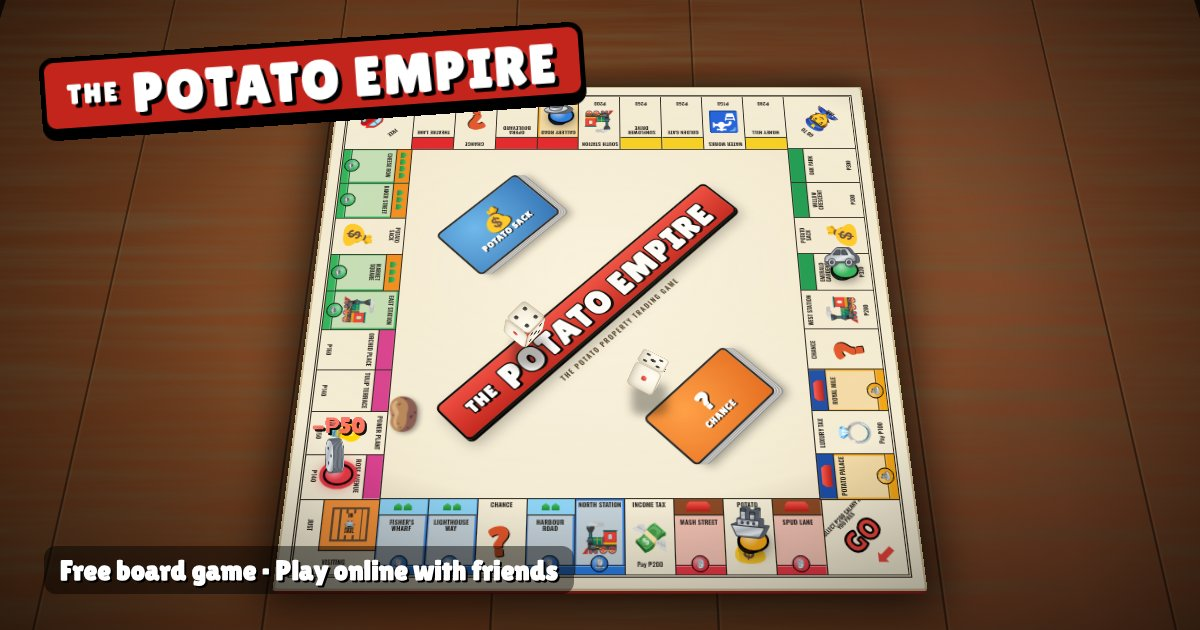
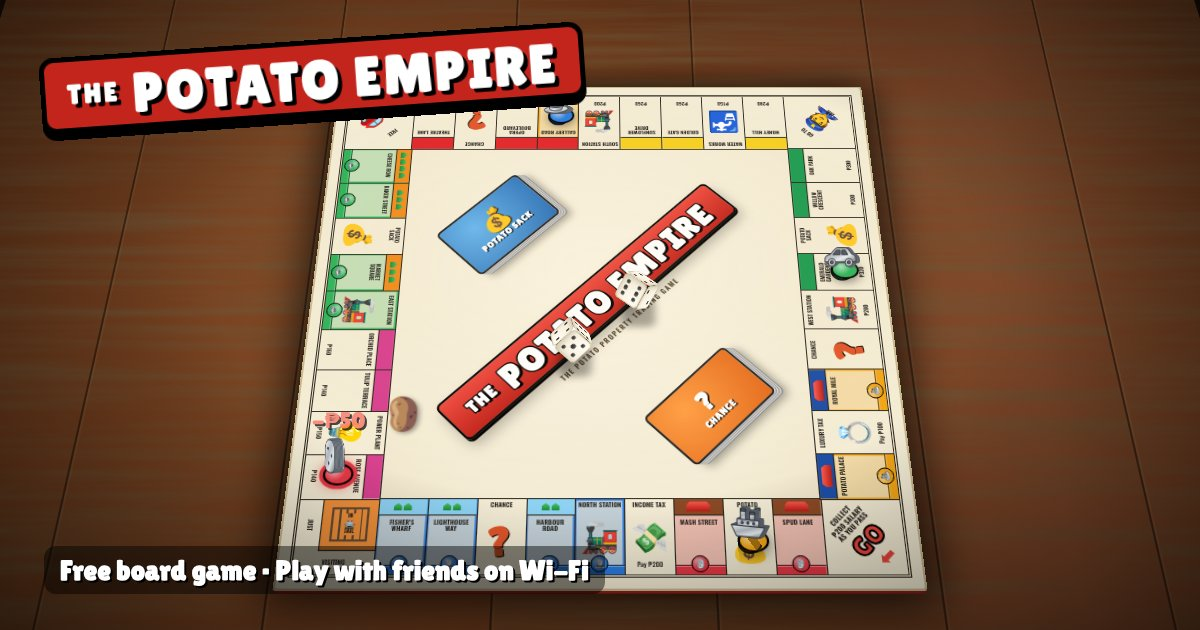
The Potato Empire: multiplayer is same-Wi-Fi only – drop relay servers, say so everywhere
- No STUN/TURN relay servers any more; devices on the same Wi-Fi connect directly
- Mode button, host/join cards, lobby, errors, log, player tag, SEO texts, share image,
  home page and README all say it works on the same Wi-Fi

Claude-Session: https://claude.ai/code/session_01BXZQxGhSPqq1sLfMS1HhSL

diff --git a/potato-empire.html b/potato-empire.html
@@ -3,9 +3,9 @@
 <head>
 <meta charset="UTF-8">
 <meta name="viewport" content="width=device-width, initial-scale=1, viewport-fit=cover">
-<title>The Potato Empire – Free Property Trading Board Game | Play Online, No Download</title>
-<meta name="description" content="Play The Potato Empire free in your browser! A classic property trading board game on a real-looking 3D table: roll the dice, buy streets, build houses and hotels, trade and bankrupt your rivals. Play against the computer or friends. No download.">
-<meta name="keywords" content="the potato empire, potato empire, potato monopoly, board game, brætspil, property trading game, monopoly style game, matador, free board game, dice game, play board game online, browser game, potato game">
+<title>The Potato Empire – Free Property Trading Board Game | Play in Your Browser, No Download</title>
+<meta name="description" content="Play The Potato Empire free in your browser! A classic property trading board game on a real-looking 3D table: roll the dice, buy streets, build houses and hotels, trade and bankrupt your rivals. Play against the computer, with friends on one device, or on your own devices over the same Wi-Fi. No download.">
+<meta name="keywords" content="the potato empire, potato empire, potato monopoly, board game, brætspil, property trading game, monopoly style game, matador, free board game, dice game, wifi board game, lan multiplayer, browser game, potato game">
 <meta name="robots" content="index, follow, max-image-preview:large">
 <meta name="theme-color" content="#2a170c">
 <meta name="application-name" content="The Potato Empire">
@@ -35,7 +35,7 @@
   "url": "https://potatoteamgames.github.io/games/potato-empire.html",
   "image": "https://potatoteamgames.github.io/games/images/og-potato-empire.jpg",
   "author": {"@type": "Organization", "name": "Potato Team Games", "url": "https://potatoteamgames.github.io/games/"},
-  "description": "A free property trading board game in your browser. Roll the dice, buy streets, build houses and hotels, trade with rivals and drive them to bankruptcy on a realistic 3D table.",
+  "description": "A free property trading board game in your browser. Roll the dice, buy streets, build houses and hotels, trade with rivals and drive them to bankruptcy on a realistic 3D table. Play against the computer, pass-and-play on one device, or with friends on the same Wi-Fi.",
   "genre": ["Board game", "Property trading game", "Dice game"],
   "gamePlatform": ["Web browser", "Mobile browser"],
   "applicationCategory": "Game",
@@ -492,7 +492,7 @@ button:disabled{cursor:not-allowed;opacity:.45}
     <div class="lidBody">
       <div class="langSeg" id="langSeg"><button data-l="en">🇬🇧 English</button><button data-l="da">🇩🇰 Dansk</button></div>
       <div id="contBox"></div>
-      <div class="modes" id="modes"><button data-m="local">🪑 Same device<small>Pass the dice around · vs computer</small></button><button data-m="online">🌐 Play online<small>Each on own device · host / join</small></button></div>
+      <div class="modes" id="modes"><button data-m="local">🪑 Same device<small>Pass the dice around · vs computer</small></button><button data-m="online">🌐 Play on Wi-Fi<small>Each on own device · same Wi-Fi</small></button></div>
       <div id="localBox">
         <h3>Players</h3>
         <div class="cnt" id="cnt"></div>
@@ -951,7 +951,7 @@ function renderPlayers(){
   if(!G)return;syncSoon();
   $('#players').innerHTML=G.players.map(p=>`<div class="pc${p.id===G.turn&&!p.out?' cur':''}${p.out?' out':''}" data-id="${p.id}" style="--pc:${p.color}">
     <div class="pTok">${tokSVG(p.token)}</div>
-    <div class="pName">${esc(p.name)}<small>${p.disc?L('📶 Reconnecting…','📶 Forbinder…'):p.left?L('🚪 Left','🚪 Gået'):p.out?L('Bankrupt','Konkurs'):!p.human?L('CPU','Computer'):NET.role&&p.ctl!=='host'?'🌐 Online':NET.role?'🏠 Host':L('Player','Spiller')}</small></div>
+    <div class="pName">${esc(p.name)}<small>${p.disc?L('📶 Reconnecting…','📶 Forbinder…'):p.left?L('🚪 Left','🚪 Gået'):p.out?L('Bankrupt','Konkurs'):!p.human?L('CPU','Computer'):NET.role&&p.ctl!=='host'?'📶 Wi-Fi':NET.role?'🏠 Host':L('Player','Spiller')}</small></div>
     <div class="pMoney">${p.out?'—':M(p.money)}</div>
     <div class="pChips">${CHIP_ORDER.map(ids=>`<span>${ids.map(i=>`<i class="${G.owner[i]===p.id?'on':''}${G.mort[i]?' m':''}" style="--c:${colorOf(i)}"></i>`).join('')}</span>`).join('')}</div>
     <div class="pFlags">${p.jail?`🔒 ${p.jailTries}/3 `:''}${p.cards.length?'🗝'.repeat(p.cards.length):''}</div></div>`).join('');
@@ -1578,11 +1578,8 @@ addEventListener('beforeunload',()=>{if(NET.role&&!NET.leaving&&G&&!G.over)quitO
 /* ================= ONLINE (WebRTC via PeerJS) ================= */
 // The host's browser runs the game. Guests receive the state + visual effects and answer when it's their move.
 const PEER_PREFIX='potato-empire-ptg-',PEERJS='https://cdn.jsdelivr.net/npm/peerjs@1.5.4/dist/peerjs.min.js';
-// Phones on mobile data sit behind carrier NAT and usually need a relay (TURN) to reach each other.
-const ICE={sdpSemantics:'unified-plan',iceServers:[
-  {urls:['stun:stun.l.google.com:19302','stun:stun1.l.google.com:19302']},{urls:'stun:stun.cloudflare.com:3478'},
-  {urls:['turn:eu-0.turn.peerjs.com:3478','turn:us-0.turn.peerjs.com:3478'],username:'peerjs',credential:'peerjsp'},
-  {urls:['turn:openrelay.metered.ca:80','turn:openrelay.metered.ca:443','turn:openrelay.metered.ca:443?transport=tcp'],username:'openrelayproject',credential:'openrelayproject'}]};
+// Online play is for devices on the same Wi-Fi: they reach each other directly, so no relay (STUN/TURN) servers are used.
+const ICE={sdpSemantics:'unified-plan',iceServers:[]};
 const peerOpts=()=>window.__PEER_OPTS||{config:ICE,pingInterval:4000};
 // a per-tab id so a guest whose connection drops can get their seat back
 NET.cid=(()=>{try{let c=sessionStorage.getItem('pe_cid');if(!c){c=Math.random().toString(36).slice(2,12);sessionStorage.setItem('pe_cid',c)}return c}catch(e){return Math.random().toString(36).slice(2,12)}})();
@@ -1643,7 +1640,7 @@ async function hostGame(){
   const box=$('#onlineBox');box.innerHTML=L('<p>⏳ Opening a table…</p>','<p>⏳ Åbner et bord…</p>');
   try{await loadPeer()}catch(e){box.innerHTML=`<p class="err">${e.message}</p>`;return}
   const tryOpen=()=>new Promise((res,rej)=>{NET.code=newCode();const pr=new Peer(PEER_PREFIX+NET.code,peerOpts());pr.on('open',()=>res(pr));pr.on('error',e=>{pr.destroy();rej(e)})});
-  let pr;for(let k=0;k<3&&!pr;k++){try{pr=await tryOpen()}catch(e){if(k===2){box.innerHTML=`<p class="err">${L('Could not open an online table','Kunne ikke åbne et online-bord')} (${esc(e.type||e.message)}). ${L('Try again in a moment.','Prøv igen om lidt.')}</p>`;return}}}
+  let pr;for(let k=0;k<3&&!pr;k++){try{pr=await tryOpen()}catch(e){if(k===2){box.innerHTML=`<p class="err">${L('Could not open a table','Kunne ikke åbne et bord')} (${esc(e.type||e.message)}). ${L('Try again in a moment.','Prøv igen om lidt.')}</p>`;return}}}
   NET.role='host';NET.peer=pr;NET.id='host';NET.lobby=[];
   pr.on('connection',c=>{
     c.on('data',m=>hostMsg(c,m));
@@ -1732,7 +1729,7 @@ function hostCountdown(seats){
 function drawHostLobby(){
   if(NET.started)return;
   const seats=lobbySeats();hostCountdown(seats);
-  $('#onlineBox').innerHTML=`<div class="codeBox"><small>${L('Table code','Bordkode')}</small><span class="code">${NET.code}</span><small>${L('Your friends open <u>The Potato Empire</u> on their own device, choose <b>Join</b> and type this code.','Dine venner åbner <u>The Potato Empire</u> på deres egen enhed, vælger <b>Join</b> og skriver koden.')}</small></div>
+  $('#onlineBox').innerHTML=`<div class="codeBox"><small>${L('Table code','Bordkode')}</small><span class="code">${NET.code}</span><small>${L('Friends on the <b>same Wi-Fi</b> open <u>The Potato Empire</u>, choose <b>Join</b> and type this code (or use 📤 Invite).','Venner på <b>samme wifi</b> åbner <u>The Potato Empire</u>, vælger <b>Join</b> og skriver koden (eller brug 📤 Inviter).')}</small></div>
     ${tokPicker(CFG.players[0].token,NET.lobby.map(g=>g.token),PCOLORS[0])}
     <div class="lob">${seats.map((s,i)=>`<div class="lobRow" style="--pc:${PCOLORS[i]}"><span class="tk">${s.cpu?'🤖':tokSVG(s.token)}</span><b>${esc(s.name)}</b><small>${s.host?L('🏠 You (host)','🏠 Dig (host)'):s.cpu?'Computer':L('🌐 Joined','🌐 Med')} ${readyTag(s)}</small></div>`).join('')}</div>
     <div class="opt" style="margin-top:8px">${L('🤖 Computer players','🤖 Computerspillere')}<div class="seg" id="cpuSeg">${[0,1,2,3,4].map(n=>`<button class="${CFG.cpu===n?'on':''}" ${NET.lobby.length+1+n>6?'disabled':''}>${n}</button>`).join('')}</div></div>
@@ -1754,7 +1751,7 @@ function hostStart(){
   newGame({players,money:CFG.money,pot:CFG.pot,speed:CFG.speed,auc:CFG.auc});
   G.online=true;
   bcast({t:'start',lang:LANG});
-  log(L(`🌐 Online game started! Table ${NET.code}. Everyone starts with ${M(CFG.money)}.`,`🌐 Online-spillet er startet! Bord ${NET.code}. Alle starter med ${M(CFG.money)}.`));
+  log(L(`📶 Wi-Fi game started! Table ${NET.code}. Everyone starts with ${M(CFG.money)}.`,`📶 Wifi-spillet er startet! Bord ${NET.code}. Alle starter med ${M(CFG.money)}.`));
   startFrom(G);syncNow();
 }
 
@@ -1778,7 +1775,7 @@ async function joinGame(){
     // the host's phone may be re-registering the table (e.g. after switching apps) – try a few more times
     if(e.type==='peer-unavailable'&&!NET.started&&++tries<6){box.innerHTML=L(`<p>⏳ Looking for table <b>${esc(code)}</b>… (try ${tries+1}/6)</p>`,`<p>⏳ Leder efter bord <b>${esc(code)}</b>… (forsøg ${tries+1}/6)</p>`);setTimeout(()=>guestConnect(code,box),2500);return}
     if(NET.started)return;
-    fail(e.type==='peer-unavailable'?L('No table found with code <b>'+esc(code)+'</b>. Check the code and that the host is still waiting.','Intet bord fundet med koden <b>'+esc(code)+'</b>. Tjek koden, og at hosten stadig venter.'):L('Connection problem: ','Forbindelsesproblem: ')+esc(e.type||e.message));
+    fail(e.type==='peer-unavailable'?L('No table found with code <b>'+esc(code)+'</b>. Check the code, that the host is still waiting, and that you are on the same Wi-Fi.','Intet bord fundet med koden <b>'+esc(code)+'</b>. Tjek koden, at hosten stadig venter, og at I er på samme wifi.'):L('Connection problem: ','Forbindelsesproblem: ')+esc(e.type||e.message));
   });
   pr.on('open',id=>{NET.role='guest';NET.id=id;$('#rulesBox').style.display='none';wake();guestConnect(code,box,fail)});
 }
@@ -1786,7 +1783,7 @@ async function joinGame(){
 function guestConnect(code,box,fail){
   const pr=NET.peer;if(!pr||pr.destroyed)return;
   const c=pr.connect(PEER_PREFIX+code,{reliable:true});
-  const to=setTimeout(()=>{if(!c.open&&!NET.started&&fail)fail(L('Could not reach the host. On mobile data this can fail – try again, or put one of the phones on Wi-Fi.','Kunne ikke få forbindelse til hosten. På mobildata kan det fejle – prøv igen, eller sæt en af telefonerne på wifi.'))},25000);
+  const to=setTimeout(()=>{if(!c.open&&!NET.started&&fail)fail(L('Could not reach the host. Make sure both devices are on the same Wi-Fi, then try again.','Kunne ikke få forbindelse til hosten. Tjek at begge enheder er på samme wifi, og prøv igen.'))},25000);
   c.on('open',()=>{clearTimeout(to);NET.conn=c;NET.lastHost=Date.now();const me=CFG.players[0];
     c.send({t:'hello',cid:NET.cid,name:(me.name||'').trim()||L('Guest','Gæst'),token:me.token});
     if(!NET.started&&box)box.innerHTML=L('<p>✅ Connected! Waiting for the host…</p>','<p>✅ Forbundet! Venter på hosten…</p>');
@@ -1905,11 +1902,11 @@ function drawOnline(){
       <input id="onName" value="${esc(['You','Dig'].includes(me.name)?'':me.name)}" placeholder="${L('Your name','Dit navn')}" maxlength="14" aria-label="${L('Your name','Dit navn')}"></div>
     ${tokPicker(me.token,[],'#ffcb52')}
     <div class="onGrid">
-      <div class="onCard"><h4>${L('🏠 Host a table','🏠 Vær host')}</h4><p>${L('Get a code and let friends join from their own PC, tablet or phone.','Få en kode og lad venner joine fra deres egen PC, tablet eller telefon.')}</p><button class="btn go" id="hostBtn">${L('Host game','Host spil')}</button></div>
-      <div class="onCard"><h4>${L('🔑 Join a table','🔑 Join et bord')}</h4><p>${L('Type the 4-letter code from the host.','Skriv koden på 4 tegn fra hosten.')}</p>
+      <div class="onCard"><h4>${L('🏠 Host a table','🏠 Vær host')}</h4><p>${L('Get a code and let friends on the same Wi-Fi join from their own PC, tablet or phone.','Få en kode og lad venner på samme wifi joine fra deres egen PC, tablet eller telefon.')}</p><button class="btn go" id="hostBtn">${L('Host game','Host spil')}</button></div>
+      <div class="onCard"><h4>${L('🔑 Join a table','🔑 Join et bord')}</h4><p>${L('Type the 4-letter code from the host. You must be on the same Wi-Fi.','Skriv koden på 4 tegn fra hosten. I skal være på samme wifi.')}</p>
         <div style="display:flex;gap:6px"><input id="joinCode" maxlength="4" placeholder="${L('CODE','KODE')}" autocapitalize="characters" autocomplete="off"><button class="btn green" id="joinBtn" style="flex:0 0 auto">Join</button></div><div class="err" id="joinErr"></div></div>
     </div>
-    <p class="hint">${L('Works on the same Wi-Fi and over the internet. A free matchmaking service connects the browsers, then the game runs directly between your devices.','Virker på samme wifi og over internettet. En gratis forbindelsestjeneste kobler browserne sammen, og så kører spillet direkte mellem jeres enheder.')}</p>`;
+    <p class="hint">${L('📶 All devices must be on the <b>same Wi-Fi</b>. A free matchmaking service only swaps the table code – the game itself runs directly between your devices.','📶 Alle enheder skal være på <b>samme wifi</b>. En gratis forbindelsestjeneste bytter kun bordkoden – selve spillet kører direkte mellem jeres enheder.')}</p>`;
   $$('#onlineBox .tokPick button').forEach(b=>b.onclick=()=>{me.token=+b.dataset.tok;SFX.click();$$('#onlineBox .tokPick button').forEach(x=>x.classList.toggle('on',x===b))});
   $('#onName').oninput=e=>{me.name=e.target.value};
   $('#hostBtn').onclick=()=>{SFX.ac();hostGame()};
@@ -2001,7 +1998,7 @@ const STATIC=[
   ['#bSnd@title','Sound on/off','Lyd til/fra'],['#btnManage','🏠 Properties','🏠 Grunde'],['#btnTrade','🤝 Trade','🤝 Handel'],['.logBox h3','📜 Game log','📜 Spillets log'],
   ['.lidSub','The Potato Property Trading Game','Kartoffel-ejendomsspillet'],
   ['#modes [data-m=local]','🪑 Same device<small>Pass the dice around · vs computer</small>','🪑 Samme enhed<small>Send terningerne rundt · mod computeren</small>',1],
-  ['#modes [data-m=online]','🌐 Play online<small>Each on own device · host / join</small>','🌐 Spil online<small>Hver på sin enhed · host / join</small>',1],
+  ['#modes [data-m=online]','🌐 Play on Wi-Fi<small>Each on own device · same Wi-Fi</small>','🌐 Spil på wifi<small>Hver på sin enhed · samme wifi</small>',1],
   ['#localBox h3','Players','Spillere'],['#rulesBox h3','House rules','Husregler'],
   ['#lblMoney','💰 Starting money','💰 Startbeløb'],['#lblPot','🅿 Free Parking jackpot','🅿 Jackpot på Gratis parkering'],['#lblSpeed','⚡ Computer speed','⚡ Computerens fart'],['#lblAuc','🔨 Auctions','🔨 Auktioner'],
   ['#homeBtn','← All games','← Alle spil'],['#rulesBtn','📖 Rules','📖 Regler'],['#startBtn','🎲 Start game','🎲 Start spil'],

diff --git a/index.html b/index.html
@@ -231,8 +231,8 @@ footer .wrap{display:flex;flex-wrap:wrap;gap:10px;justify-content:space-between}
       <div>
         <span class="tag">🆕 NEW · FEATURED GAME</span>
         <h2 class="ftitle"><span class="the">THE</span> POTATO EMPIRE</h2>
-        <p class="fdesc">The classic property trading board game on a real table! Roll the dice, buy streets, build houses and hotels, trade and bankrupt your rivals. Play vs the computer, pass the dice with friends, or play online with a table code.</p>
-        <div class="chips"><span>🎲 Board game</span><span>🏨 Build &amp; trade</span><span>👥 2–6 players</span><span>🌐 Online</span><span>🇬🇧/🇩🇰</span><span>📱 Mobile</span></div>
+        <p class="fdesc">The classic property trading board game on a real table! Roll the dice, buy streets, build houses and hotels, trade and bankrupt your rivals. Play vs the computer, pass the dice with friends, or on your own devices over the same Wi-Fi.</p>
+        <div class="chips"><span>🎲 Board game</span><span>🏨 Build &amp; trade</span><span>👥 2–6 players</span><span>📶 Wi-Fi multiplayer</span><span>🇬🇧/🇩🇰</span><span>📱 Mobile</span></div>
         <span class="play" id="monoPlay">▶ PLAY NOW</span>
         <div class="progress" id="monoProgress"></div>
       </div>
@@ -256,7 +256,7 @@ footer .wrap{display:flex;flex-wrap:wrap;gap:10px;justify-content:space-between}
         <div class="thumb mono"><span class="badge hot">NEW</span><span class="tb"><span class="the">THE</span> POTATO EMPIRE</span></div>
         <div class="body">
           <h3>The Potato Empire</h3>
-          <p>Classic property trading board game. Buy streets, build hotels, trade and bankrupt your rivals – vs computer, with friends on one device or online.</p>
+          <p>Classic property trading board game. Buy streets, build hotels, trade and bankrupt your rivals – vs computer, with friends on one device or over the same Wi-Fi.</p>
           <div class="meta"><span id="monoMeta">🎲 Board game · 2–6</span><span class="btn">Play ▶</span></div>
         </div>
       </a>
@@ -290,7 +290,7 @@ footer .wrap{display:flex;flex-wrap:wrap;gap:10px;justify-content:space-between}
   <section class="about" id="about" aria-labelledby="aboutH">
     <h2 id="aboutH">About Potato Team Games</h2>
     <p><b>Potato Team Games</b> makes free, fun browser games that run on any device — PC, Mac, Chromebook, iPhone and Android. Every game works right in your browser with no download, no account and no ads. Your progress is saved automatically on your device.</p>
-    <p>Our newest game, <a href="potato-empire.html"><b>The Potato Empire</b></a>, is a classic property trading board game that looks like it's sitting on your table. Roll the dice, buy streets, build houses and hotels and trade your way to the top – against the computer, with friends on one device, or online with a table code. Play in English or Danish.</p>
+    <p>Our newest game, <a href="potato-empire.html"><b>The Potato Empire</b></a>, is a classic property trading board game that looks like it's sitting on your table. Roll the dice, buy streets, build houses and hotels and trade your way to the top – against the computer, with friends on one device, or on your own devices over the same Wi-Fi. Play in English or Danish.</p>
     <p><a href="potato-bingo-adventures.html"><b>Potato Bingo Adventures</b></a> is a bingo game with a twist: win bingo to build towns all around the world, from Ireland to the Moon and beyond.</p>
     <p>Our first game, <a href="potato-clicker.html"><b>Potato Clicker</b></a>, is an idle clicker game like Cookie Clicker — but with potatoes, cowboys and a whole lot of upgrades.</p>
   </section>

diff --git a/README.md b/README.md
@@ -1,6 +1,6 @@
 # 🥔 Potato Team Games – Free Browser Games
 Visit our page with free good games: https://potatoteamgames.github.io/games/
 
-- 🎲 [The Potato Empire](https://potatoteamgames.github.io/games/potato-empire.html) – free property trading board game (vs computer, same device or online with a table code; English/Danish)
+- 🎲 [The Potato Empire](https://potatoteamgames.github.io/games/potato-empire.html) – free property trading board game (vs computer, same device or on the same Wi-Fi with a table code; English/Danish)
 - 🎱 [Potato Bingo Adventures](https://potatoteamgames.github.io/games/potato-bingo-adventures.html) – free bingo adventure game
 - 👆 [Potato Clicker](https://potatoteamgames.github.io/games/potato-clicker.html) – free Wild West idle clicker game
